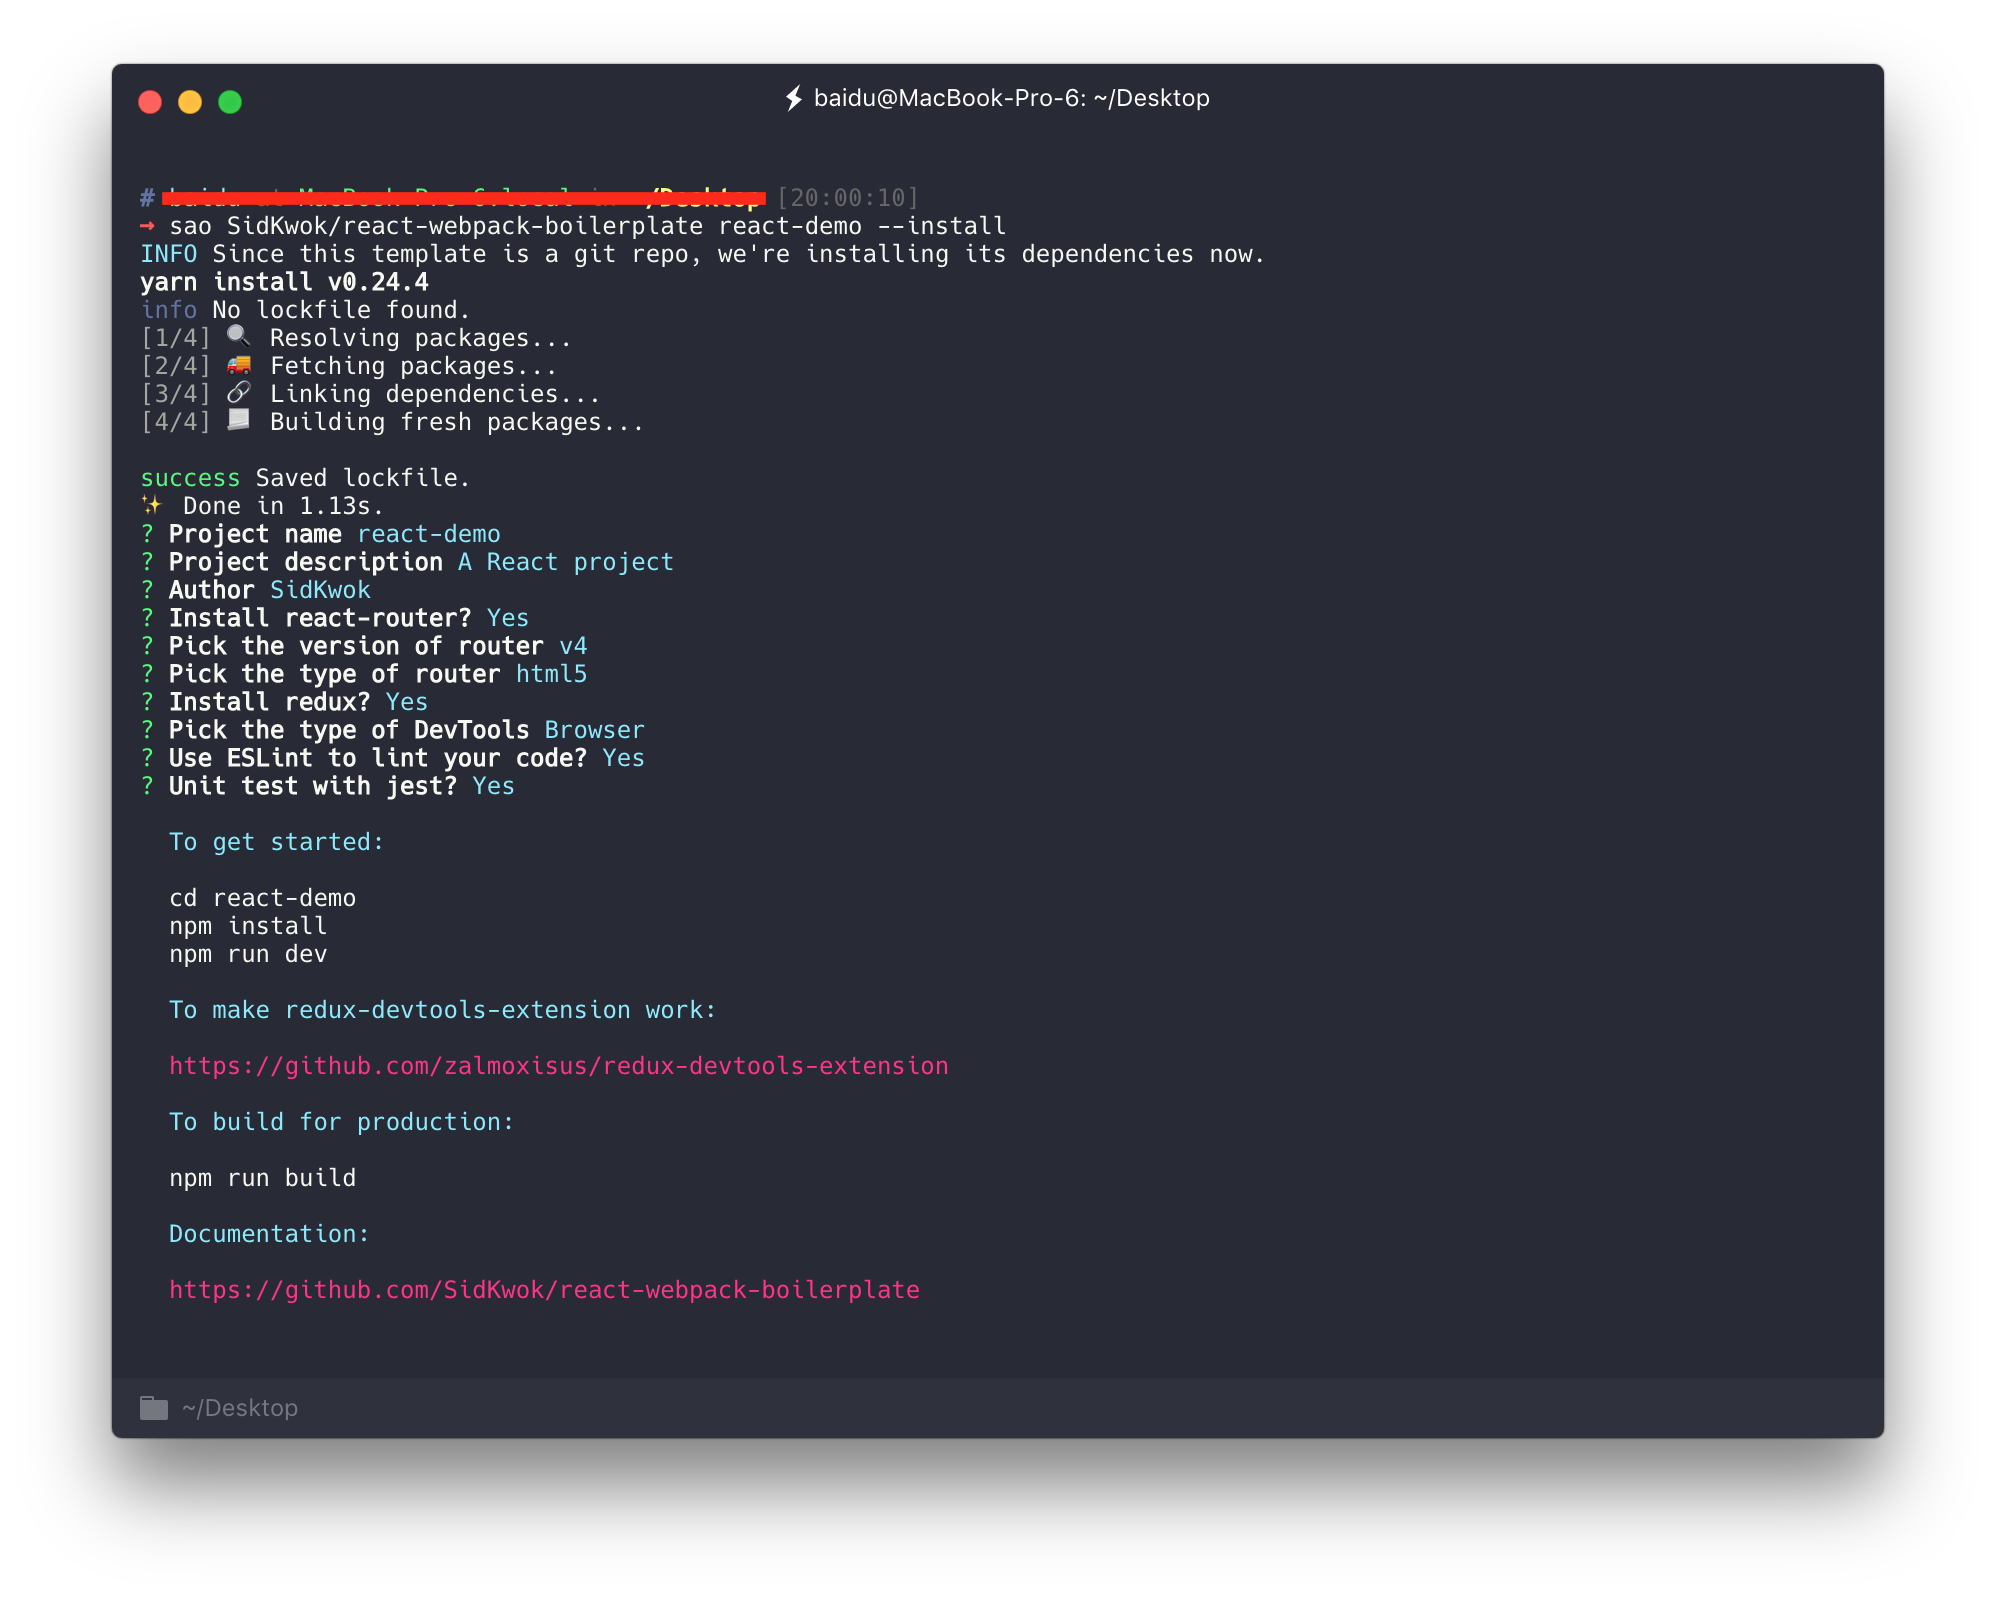
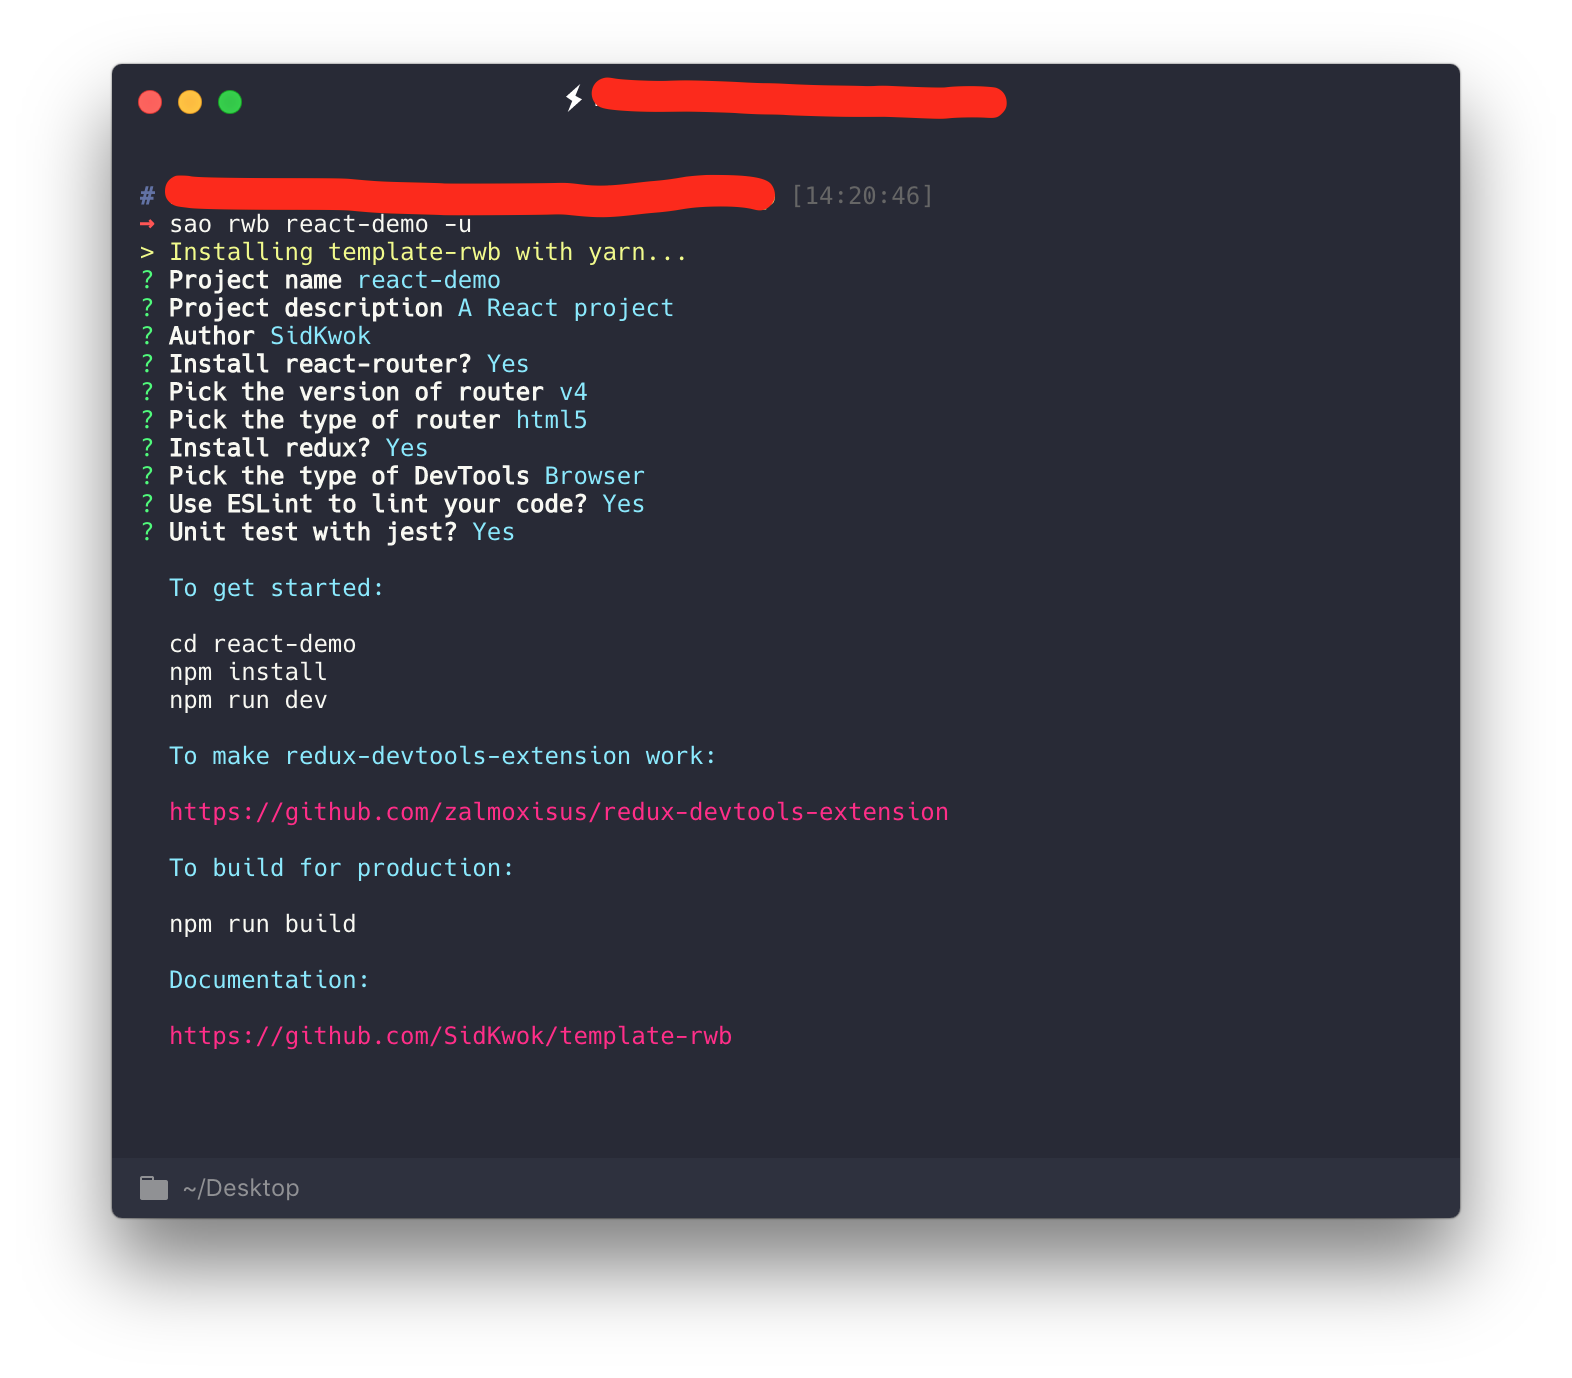
update info and screenshot

Changed region(s): [[0.0312, 0.0312, 0.9663, 0.9361], [0.4364, 0.5617, 0.4987, 0.5929], [0.5299, 0.5617, 0.5611, 0.5929]]

diff --git a/sao.js b/sao.js
@@ -132,6 +132,6 @@ module.exports = {
         console.log('  npm run build');
 
         console.log(chalk.cyan('\n  Documentation:\n'));
-        console.log('  https://github.com/SidKwok/react-webpack-boilerplate\n');
+        console.log('  https://github.com/SidKwok/template-rwb\n');
     }
 };
